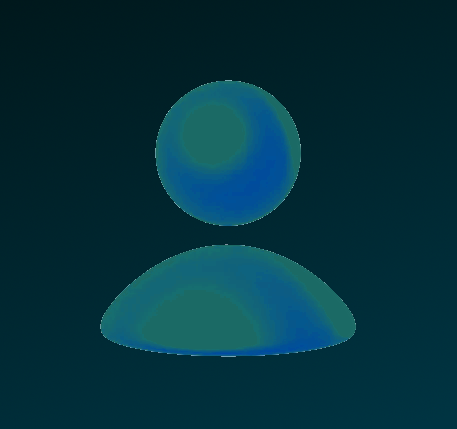
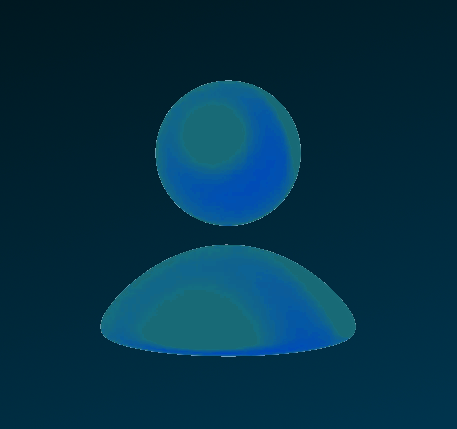
changed color styles

Changed region(s): [[0.4289, 0.303, 0.6433, 0.5152], [0.4595, 0.7879, 0.7046, 0.8485]]

diff --git a/style.css b/style.css
@@ -14,15 +14,15 @@ body{
 }
 /*PASSED QUALITY CHECK*/
 .darkmodeNoTransition{
-    background-color: #002227;
+    background-color: #001b27;
 }
 /*PASSED QUALITY CHECK*/
 .darkmode{
-    background-color: #002227;
+    background-color: #001b27;
 }
 .hr0{
     border: dashed 1px; 
-    border-color: #00ffee; 
+    border-color: #00ffff;
     width: 25%;
 }
 /***************************************ESSENTIALS********************************************/
@@ -71,7 +71,7 @@ body{
     transition: .25s ease;
     font-weight: 500;
     text-decoration: none;
-    color: #00ffee;
+    color: #00ffff;
     font-size: 110%;
 }
 
@@ -94,7 +94,7 @@ body{
     font-family:'IBM Plex Sans';
     font-weight: 500;
     font-size:300%;
-    color: #00ffee;
+    color: #00ffff;
     padding: 35px 35px 35px 35px ;
     margin: 15px;
 
@@ -218,10 +218,10 @@ body{
 }
 .darkmodemain{
     background-color: #002227;
-    background-image: linear-gradient(to bottom, #002227, #00161a, #001114);
+    background-image: linear-gradient(to bottom, #001b27, #00101a, #000b14);
     border-radius: 1%;
     border-radius: 1%;
-    box-shadow: 0 0 20px 5px  rgb(3, 71, 83);
+    box-shadow: 0 0 20px 5px  rgb(3, 58, 83);
 }
 .aboutcontent{
     padding: 0 5em;
@@ -232,7 +232,7 @@ body{
     padding: 0 0 5 0px;
     background-color: #4271bd;
     text-decoration: none;
-    color: #00ffee;
+    color: #00ffff;
     border-radius: 2px;
 }
 #abouttitles{
@@ -268,7 +268,7 @@ body{
 }
 .colorhover:hover{
     background-color: #6185BF;
-    color: #00ffee;
+    color: #00ffff;
 }
 .projectdirectingbutton{
     text-decoration: none;

diff --git a/index.html b/index.html
@@ -35,9 +35,9 @@
                            
         <div class = "navButton"> <!--navButton-->      
             <span>
-                <a href = #top class="navButtonElement"><span class = "navButtonElementSpan">&nbsp;<b>home</b>&nbsp;</span></a>
-                <a href = #contacts class="navButtonElement"><span class = "navButtonElementSpan">&nbsp;<b>contact</b>&nbsp;</span></a>
-                <a href = #album class="navButtonElement"><span class = "navButtonElementSpan">&nbsp;<b>art</b>&nbsp;</span></a>
+                <a href = #top class="navButtonElement"><span class = "navButtonElementSpan">&nbsp;home&nbsp;</span></a>
+                <a href = #contacts class="navButtonElement"><span class = "navButtonElementSpan">&nbsp;contact&nbsp;</span></a>
+                <a href = #album class="navButtonElement"><span class = "navButtonElementSpan">&nbsp;art&nbsp;</span></a>
                <button class = "navButtonElement darkModeButton" onclick="darkMode()"><div class = "emoji">🌙</div></button>
                </span>
         </div> <!--navbarButton-->
